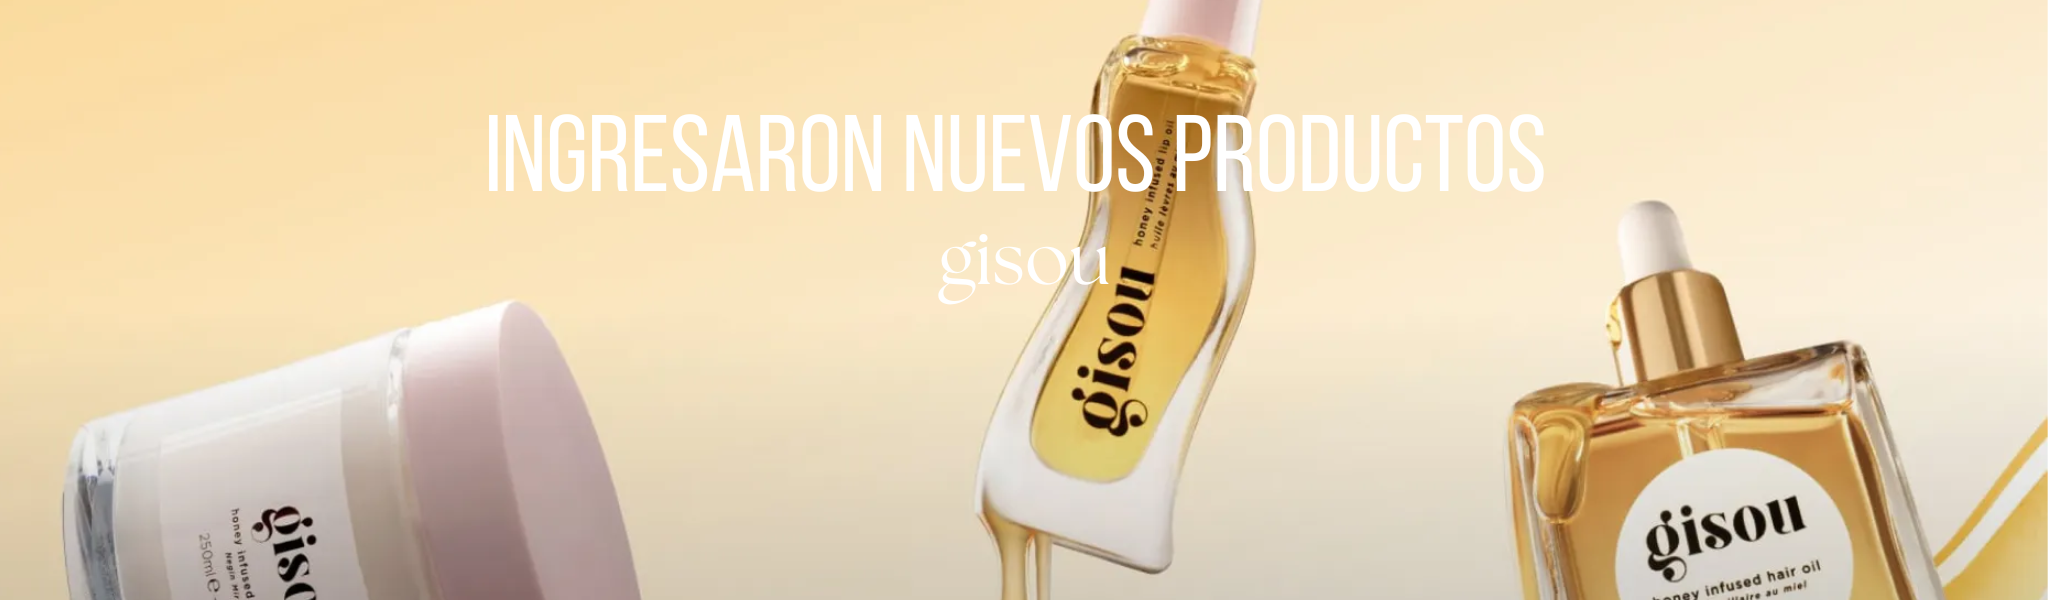
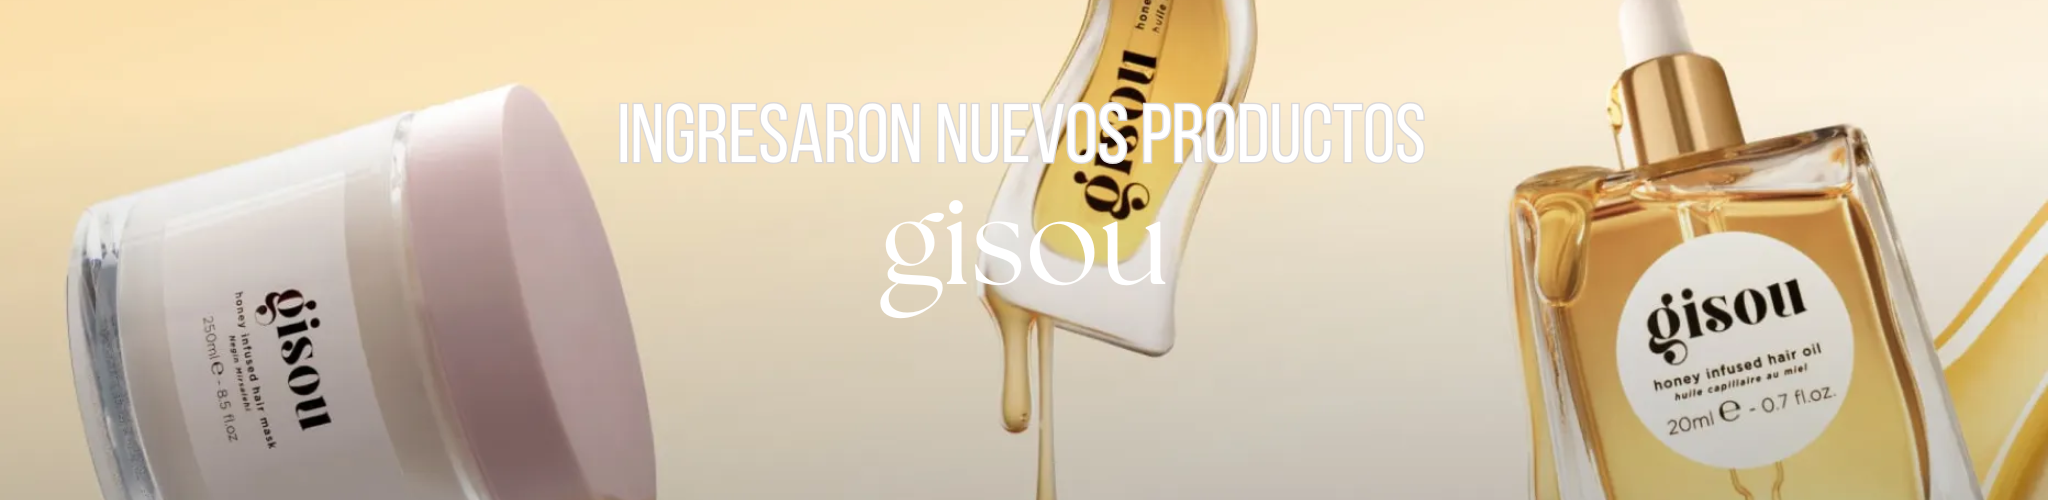
fix slider

diff --git a/src/Components/Common/Slider/slider.css b/src/Components/Common/Slider/slider.css
@@ -18,112 +18,123 @@
     font-family: var(--text-defaul);
 }
 
-html,
-body {
-    background: var(--color-background);
-    height: 100%;
-    margin: 0;
-    padding: 0;
+.slider_container {
     width: 100%;
+    margin: 0 auto;
+    overflow: hidden;
+    position: relative;
 }
 
 .slider {
-    margin: 0 auto;
-    width: vw;
+    width: 100%;
+    position: relative;
 }
 
 .slide_viewer {
-    height: 500px;
+    width: 100%;
     overflow: hidden;
     position: relative;
-    box-shadow: 0 8px 20px rgba(0, 0, 0, 0.1);
 }
 
 .slide_group {
-    height: 100%;
     display: flex;
-    flex-wrap: nowrap;
-    transition: transform 0.5s ease-in-out;
+    width: 100%;
+    height: 100%;
+    transition: transform 0.6s ease-in-out;
+    will-change: transform;
 }
 
 .slide {
-    height: 100%;
+    flex: 0 0 100%;
     width: 100%;
-    flex-shrink: 0;
+
+    position: relative;
 }
 
-.slide:nth-of-type(1) {
-    background: #D7A151;
-}
-
-.slide:nth-of-type(2) {
-    background: #F4E4CD;
-}
-
-.slide:nth-of-type(3) {
-    background: #814130;
-}
-
-.slide:nth-of-type(4) {
-    background: #d4d1d1;
+.slide img {
+    width: 100%;
+    height: 100%;
+    object-fit: cover;
 }
 
 .directional_nav {
     position: absolute;
     top: 50%;
-    left: 0;
     width: 100%;
+    transform: translateY(-50%);
     display: flex;
     justify-content: space-between;
-    transform: translateY(-50%);
-    padding: 0 1.5rem;
     z-index: 10;
-}
-
-.previous_btn {
-    bottom: 0;
-    left: 100px;
-    margin: auto;
-    position: absolute;
-    top: 0;
-}
-
-.next_btn {
-    bottom: 0;
-    margin: auto;
-    position: absolute;
-    right: 100px;
-    top: 0;
 }
 
 .previous_btn,
 .next_btn {
-    background-color: var(--color-primario);
+    background: rgba(255, 255, 255, 0.3);
     border: none;
     border-radius: 50%;
-    color: white;
-    width: 48px;
-    height: 48px;
-    font-size: 1.4rem;
-    cursor: pointer;
+    width: 50px;
+    height: 50px;
     display: flex;
     align-items: center;
     justify-content: center;
-    box-shadow: 0 4px 10px rgba(0, 0, 0, 0.15);
-    opacity: 0.5;
-    transition: background-color 0.3s ease, transform 0.2s ease, opacity 0.3s ease;
+    cursor: pointer;
+    transition: all 0.3s ease;
+    margin: 0 20px;
 }
 
 .previous_btn:hover,
 .next_btn:hover {
-    background-color: var(--color-secundario);
-    transform: scale(1.05);
-    opacity: 1;
+    background: rgba(255, 255, 255, 0.7);
 }
 
-@media only screen and (max-width: 767px) {
+.previous_btn svg,
+.next_btn svg {
+    width: 30px;
+    height: 30px;
+    color: #333;
+}
 
-    .directional_nav {
-        padding: 0 20px;
+@media screen and (max-width: 1280px) {
+    .slide {
+        height: 400px;
     }
+
+    .previous_btn,
+    .next_btn {
+        width: 40px;
+        height: 40px;
+        margin: 0 15px;
+    }
+
+    .previous_btn svg,
+    .next_btn svg {
+        width: 25px;
+        height: 25px;
+    }
+}
+
+@media screen and (max-width: 769px) {
+    .slide {
+        height: 300px;
+    }
+
+    .previous_btn,
+    .next_btn {
+        width: 35px;
+        height: 35px;
+        margin: 0 10px;
+    }
+
+    .previous_btn svg,
+    .next_btn svg {
+        width: 20px;
+        height: 20px;
+    }
+}
+
+
+@media screen and (max-width: 600px) {
+.slider_container {
+    display: none; 
+}
 }
